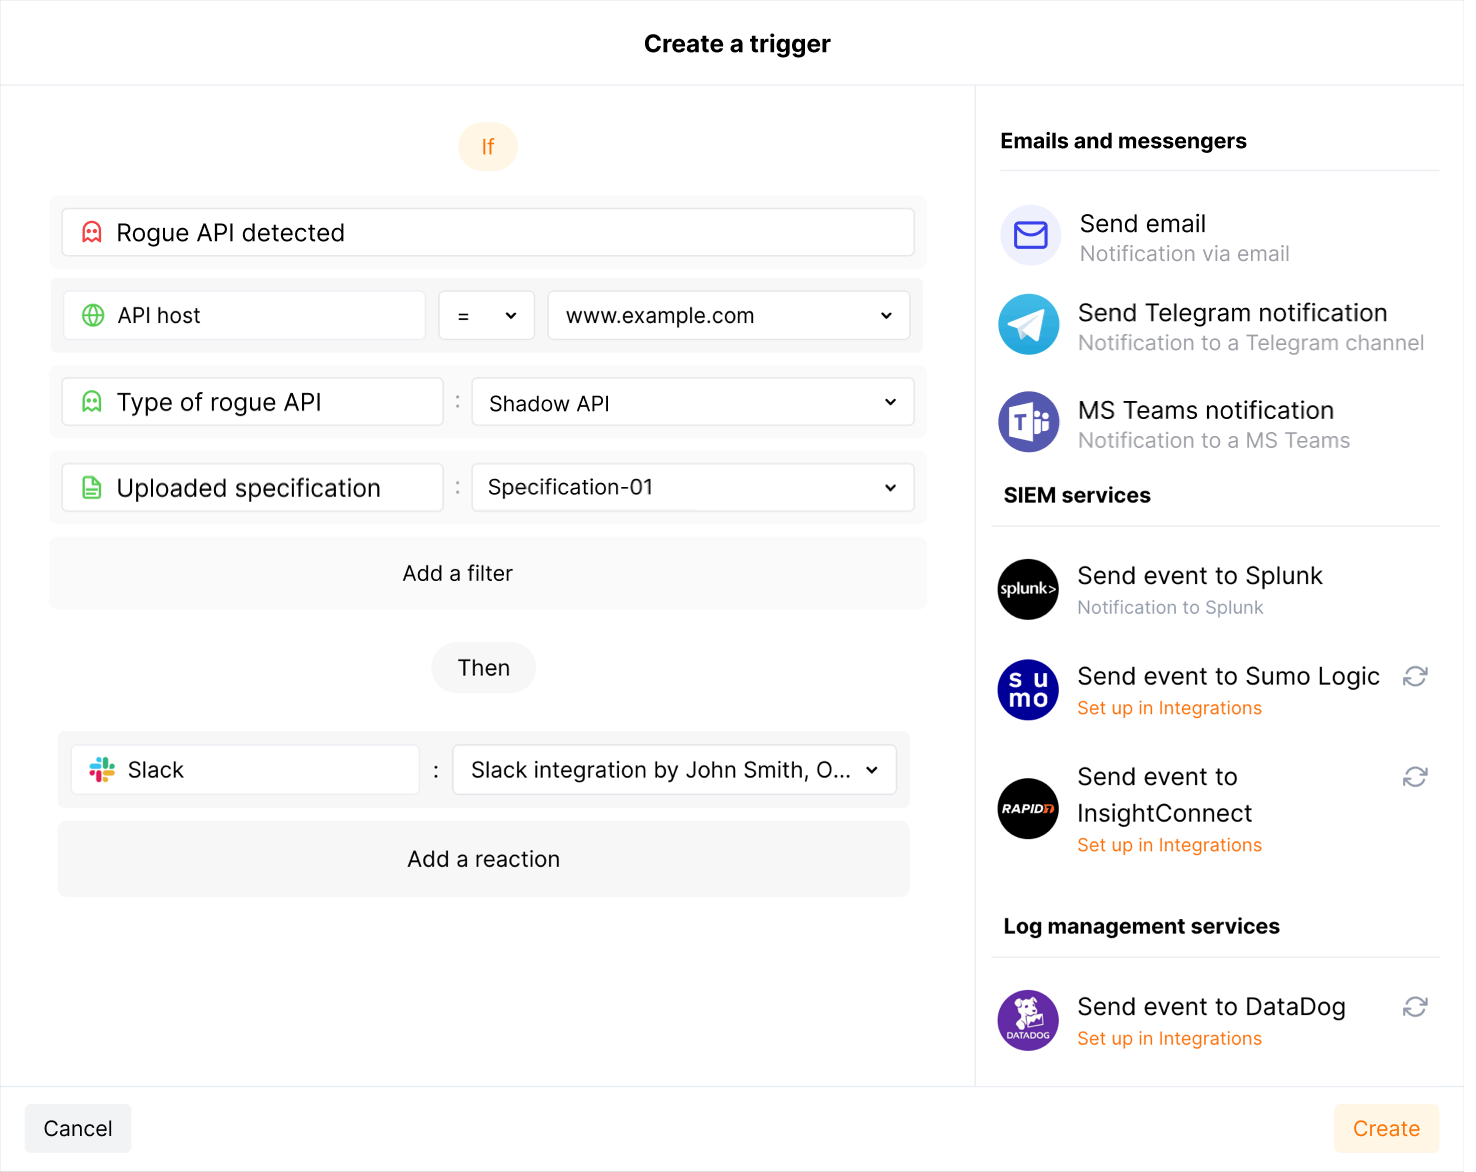
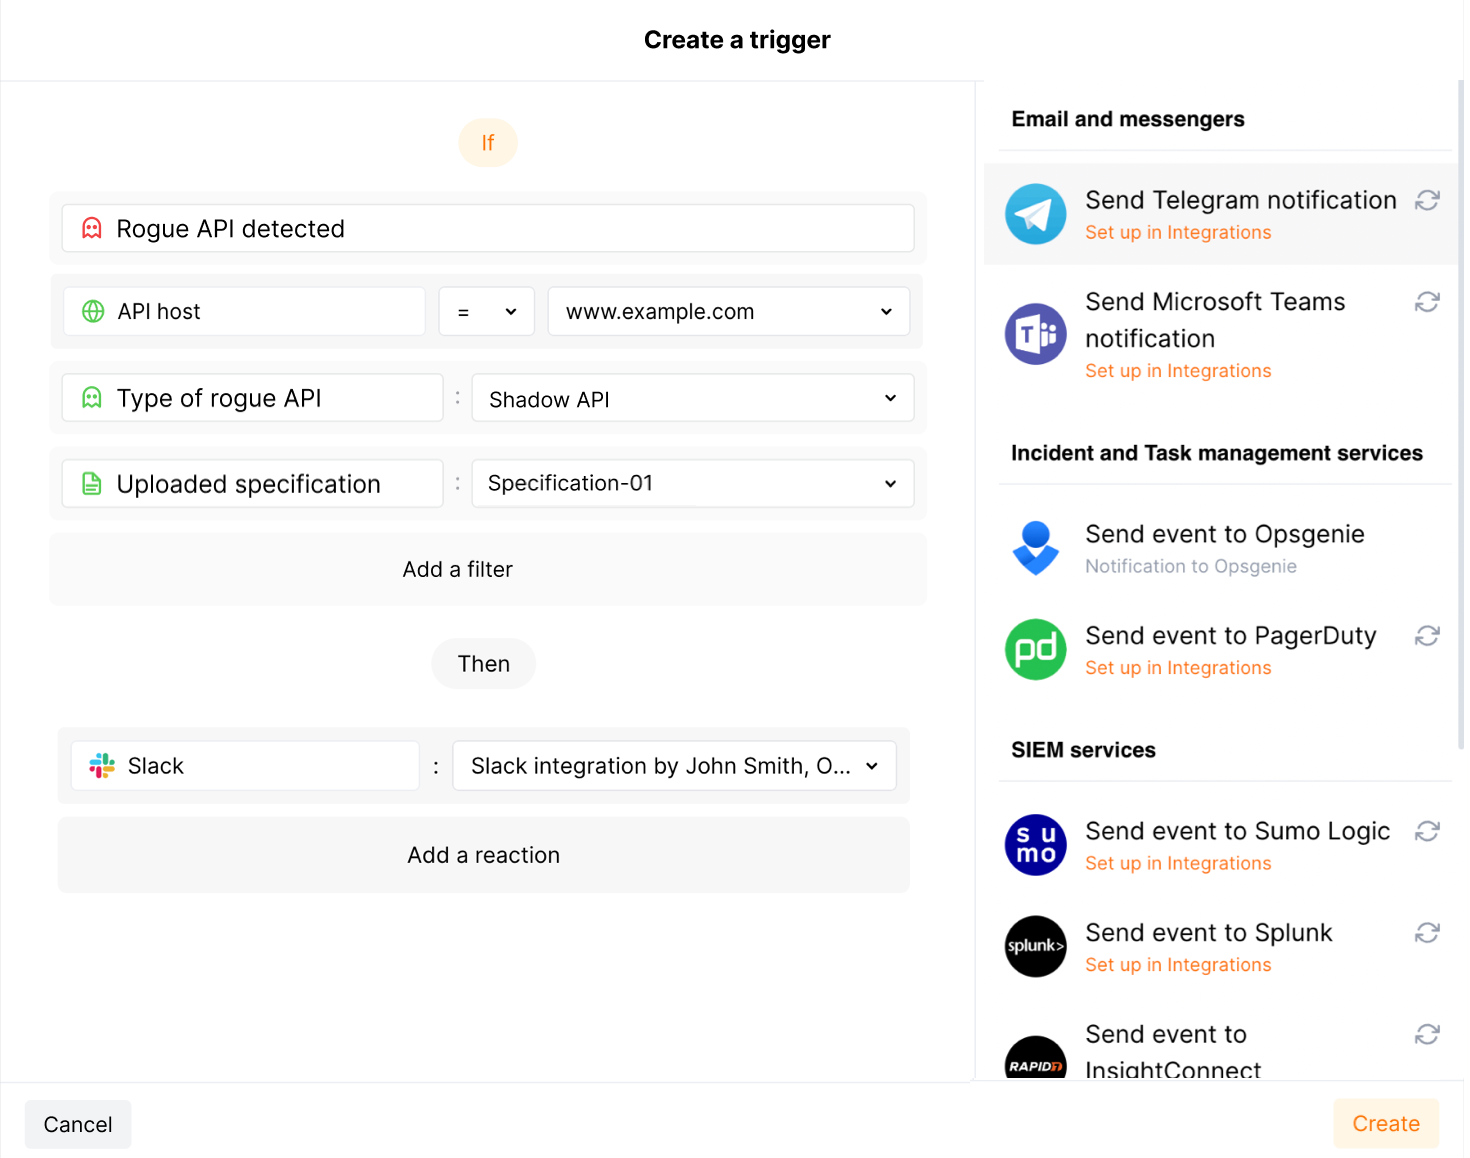
DOCS-2306 List rogue API notification in Integrations

diff --git a/include/integrations/integrations-trigger-setup.md b/include/integrations/integrations-trigger-setup.md
@@ -3,6 +3,7 @@ Besides the notifications you have already set up through the integration card, 
 * Number of [attacks](../../../glossary-en.md#attack), [hits](../../../glossary-en.md#hit) or incidents per time interval (day, hour, etc.) exceeds the set number
 * [Changes in API](../../../api-discovery/track-changes.md) took place
 * IP address was [denylisted](../../../user-guides/ip-lists/denylist.md)
+* New [rogue API](../../../api-discovery/rogue-api.md) (shadow, orphan, zombie) was detected
 * New user was added to the company account
 
 For condition detailing, you can add one or more filters. As soon, as condition and filters are set, select the integration through which the selected alert should be sent. You can select several integrations simultaneously.

diff --git a/include/integrations/integrations-trigger-setup-limited.md b/include/integrations/integrations-trigger-setup-limited.md
@@ -2,6 +2,7 @@ Besides the notifications you have already set up through the integration card, 
 
 * Number of [attacks](../../../glossary-en.md#attack), [hits](../../../glossary-en.md#hit) or incidents per time interval (day, hour, etc.) exceeds the set number
 * [Changes in API](../../../api-discovery/track-changes.md) took place
+* New [rogue API](../../../api-discovery/rogue-api.md) (shadow, orphan, zombie) was detected
 * New user was added to the company account
 
 For condition detailing, you can add one or more filters. As soon, as condition and filters are set, select the integration through which the selected alert should be sent. You can select several integrations simultaneously.

diff --git a/docs/latest/user-guides/settings/integrations/email.md b/docs/latest/user-guides/settings/integrations/email.md
@@ -29,7 +29,9 @@ Scheduled PDF reports can be sent on a daily, weekly, or monthly basis. PDF repo
 
 ## Setting up additional alerts
 
---8<-- "../include/integrations/integrations-trigger-setup-limited.md"
+* Number of [attacks](../../../glossary-en.md#attack), [hits](../../../glossary-en.md#hit) or incidents per time interval (day, hour, etc.) exceeds the set number
+* [Changes in API](../../../api-discovery/track-changes.md) took place
+* New user was added to the company account
 
 ## Disabling and deleting an integration
 
